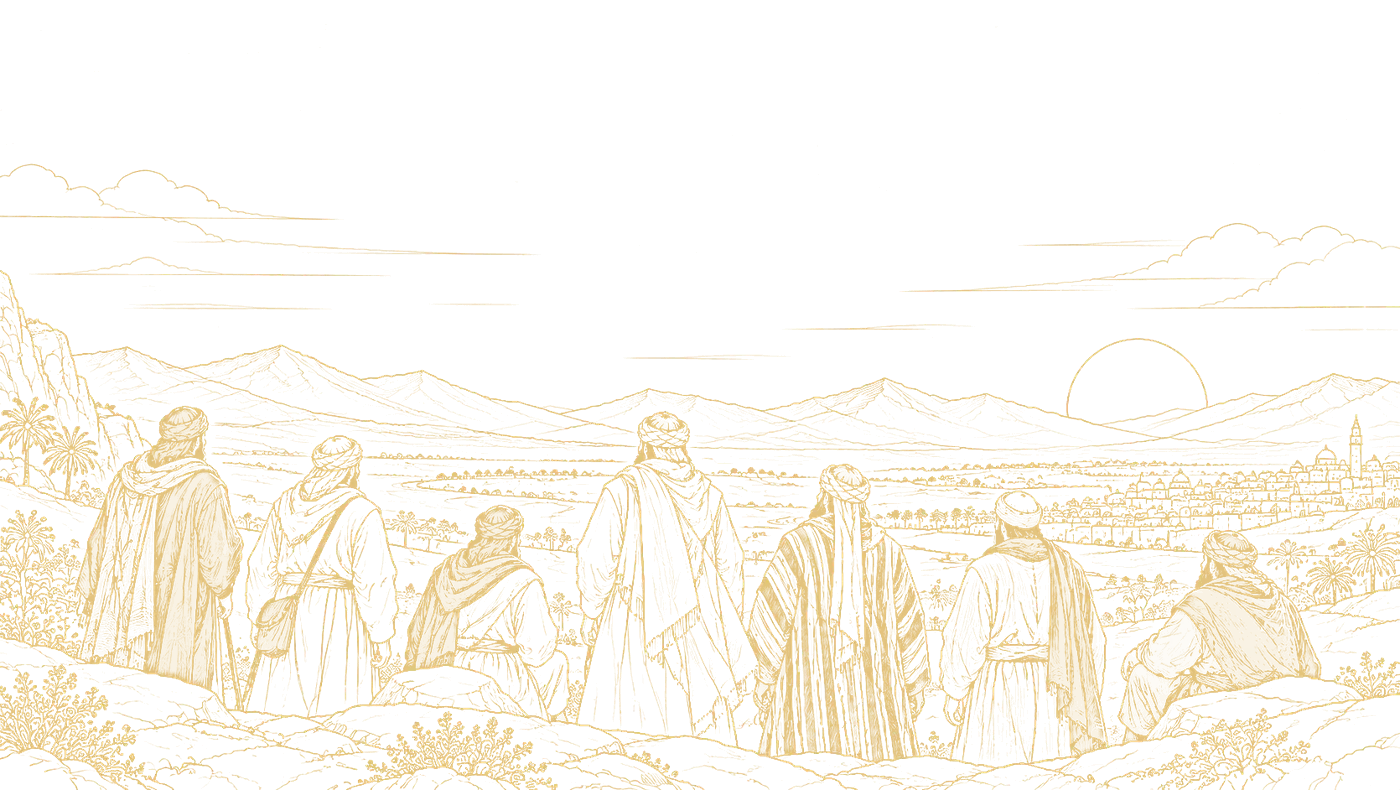
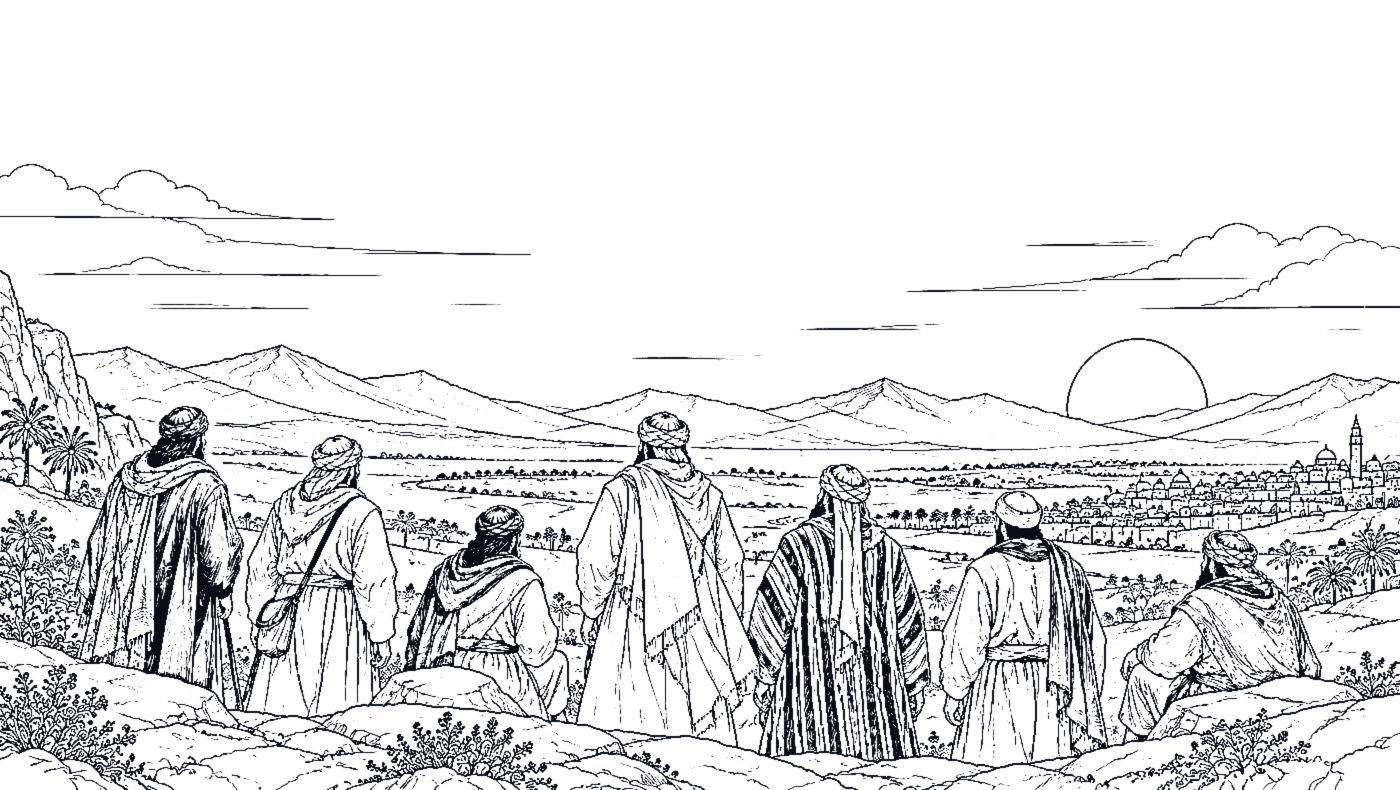
خلفية الشريط: ستايل حفر بلون واحد (tone-on-tone)
Claude-Session: https://claude.ai/code/session_017sij6fWkXrWpzPm7aXr9HP

diff --git a/index.html b/index.html
@@ -492,6 +492,11 @@ svg text{direction:rtl;word-spacing:normal!important;letter-spacing:normal!impor
 .band .band-in{padding-bottom:clamp(120px,14vw,190px)}
 @media (max-width:560px){.band-art{background-size:auto 330px;background-position:48% bottom;opacity:.26}.band .band-in{padding-bottom:200px}}
 .hero h1{margin:0 0 44px}@media (max-width:560px){.hero h1{margin-bottom:30px}}
+/* woodcut tone-on-tone */
+.band{background:#1B2033}
+.band::before{background:radial-gradient(ellipse at 50% 30%,rgba(27,32,51,.0),rgba(27,32,51,.0))}
+.band-art{opacity:.9;-webkit-mask-image:linear-gradient(to top,#000 40%,rgba(0,0,0,.6) 65%,transparent 92%);mask-image:linear-gradient(to top,#000 40%,rgba(0,0,0,.6) 65%,transparent 92%)}
+@media (max-width:560px){.band-art{opacity:.9}}
 </style>
 <style>body{margin:0;padding-top:env(safe-area-inset-top,0px);padding-bottom:env(safe-area-inset-bottom,0px)}</style></head><body>
 <div class="wrap" dir="rtl" lang="ar">

diff --git a/sw.js b/sw.js
@@ -1,4 +1,4 @@
-const V='ms-v27';
+const V='ms-v28';
 const CORE=['/','/manifest.webmanifest','/fonts/panorama.woff2','/fonts/zanjabeel.woff2','/icon-192.png','/icon-512.png'];
 self.addEventListener('install',e=>{e.waitUntil(caches.open(V).then(c=>c.addAll(CORE)));self.skipWaiting();});
 self.addEventListener('activate',e=>{e.waitUntil(caches.keys().then(ks=>Promise.all(ks.filter(k=>k!==V).map(k=>caches.delete(k)))));self.clients.claim();});
